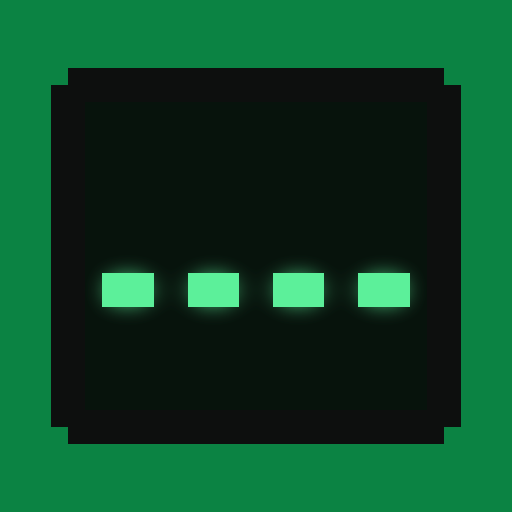
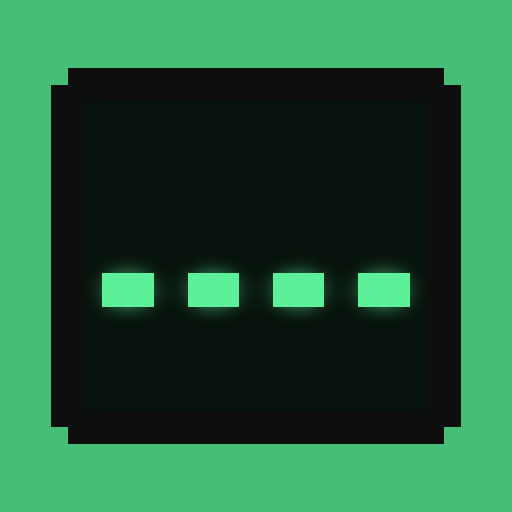
Irish Green (Pantone 15-6340 TCX, #45BE76) as the cabinet green
Cabinet body, edge shade (#2E9A5A), theme color, manifest and Home Screen icons. Commas in numbers now stay in the body font so 60,704 doesn't gap.

Claude-Session: https://claude.ai/code/session_01UkyWsiF1FUnATooC741Un1

diff --git a/docs/index.html b/docs/index.html
@@ -3,7 +3,7 @@
 <head>
 <meta charset="utf-8">
 <meta name="viewport" content="width=device-width, initial-scale=1, viewport-fit=cover">
-<meta name="theme-color" content="#0B8343">
+<meta name="theme-color" content="#45BE76">
 <meta name="apple-mobile-web-app-capable" content="yes">
 <meta name="mobile-web-app-capable" content="yes">
 <meta name="apple-mobile-web-app-status-bar-style" content="black-translucent">
@@ -29,7 +29,7 @@
    Level select: five round buttons on the panel (lit when beaten), the boss lair on the screen.
    Play: 5 right in a row beats a level, one miss ends the run. */
 :root {
-  --body: #0B8343; --body-dark: #075A2E;
+  --body: #45BE76; --body-dark: #2E9A5A;   /* Irish Green, Pantone 15-6340 TCX, and its shade */
   --bezel: #0D0F0E; --screen: #07130C; --glow: #5CF09A; --text: #EAFBF0; --dim: #7FAF92;
   --hot: #FF8A3D; --gold: #F7C948;
   --btn: #F6F0E2; --btn-edge: #CBBFA4; --btn-ink: #1E2A3B;
@@ -248,7 +248,7 @@ button { -webkit-tap-highlight-color: transparent; font-variant-ligatures: none;
   // keep hyphenated words and score/season ranges on one line (outside tags only)
   var keep = function (html) { return html.replace(/(<[^>]*>)|([A-Za-z0-9’]+(?:[-–][A-Za-z0-9’]+)+)/g, function (m, tag, word) { return tag || '<span class="nb">' + word + '</span>'; }); };
   // Pixelify Sans draws 5 like an S, so digits use the arcade face (text outside tags only)
-  var num = function (html) { return html.replace(/(<[^>]*>)|(\d+(?:[.,]\d+)*)/g, function (m, tag, d) { return tag || '<span class="num">' + d + '</span>'; }); };
+  var num = function (html) { return html.replace(/(<[^>]*>)|(\d+)/g, function (m, tag, d) { return tag || '<span class="num">' + d + '</span>'; }); };
   // the sentence with its answer swapped for a blank (or filled in), glued to its punctuation so they never split
   function sentence(it, fill) {
     var glue = new RegExp('(^|[^A-Za-z0-9])((?:&quot;|“)?)(' + quote(esc(it.w)) + ')(?![A-Za-z0-9])((?:[:,.!?…\'’”]|&quot;)*)', 'i');

diff --git a/build/template.html b/build/template.html
@@ -8,7 +8,7 @@
    Level select: five round buttons on the panel (lit when beaten), the boss lair on the screen.
    Play: 5 right in a row beats a level, one miss ends the run. */
 :root {
-  --body: #0B8343; --body-dark: #075A2E;
+  --body: #45BE76; --body-dark: #2E9A5A;   /* Irish Green, Pantone 15-6340 TCX, and its shade */
   --bezel: #0D0F0E; --screen: #07130C; --glow: #5CF09A; --text: #EAFBF0; --dim: #7FAF92;
   --hot: #FF8A3D; --gold: #F7C948;
   --btn: #F6F0E2; --btn-edge: #CBBFA4; --btn-ink: #1E2A3B;
@@ -227,7 +227,7 @@ button { -webkit-tap-highlight-color: transparent; font-variant-ligatures: none;
   // keep hyphenated words and score/season ranges on one line (outside tags only)
   var keep = function (html) { return html.replace(/(<[^>]*>)|([A-Za-z0-9’]+(?:[-–][A-Za-z0-9’]+)+)/g, function (m, tag, word) { return tag || '<span class="nb">' + word + '</span>'; }); };
   // Pixelify Sans draws 5 like an S, so digits use the arcade face (text outside tags only)
-  var num = function (html) { return html.replace(/(<[^>]*>)|(\d+(?:[.,]\d+)*)/g, function (m, tag, d) { return tag || '<span class="num">' + d + '</span>'; }); };
+  var num = function (html) { return html.replace(/(<[^>]*>)|(\d+)/g, function (m, tag, d) { return tag || '<span class="num">' + d + '</span>'; }); };
   // the sentence with its answer swapped for a blank (or filled in), glued to its punctuation so they never split
   function sentence(it, fill) {
     var glue = new RegExp('(^|[^A-Za-z0-9])((?:&quot;|“)?)(' + quote(esc(it.w)) + ')(?![A-Za-z0-9])((?:[:,.!?…\'’”]|&quot;)*)', 'i');

diff --git a/build/head.html b/build/head.html
@@ -3,7 +3,7 @@
 <head>
 <meta charset="utf-8">
 <meta name="viewport" content="width=device-width, initial-scale=1, viewport-fit=cover">
-<meta name="theme-color" content="#0B8343">
+<meta name="theme-color" content="#45BE76">
 <meta name="apple-mobile-web-app-capable" content="yes">
 <meta name="mobile-web-app-capable" content="yes">
 <meta name="apple-mobile-web-app-status-bar-style" content="black-translucent">

diff --git a/docs/sw.js b/docs/sw.js
@@ -2,7 +2,7 @@
 // The page comes from the network first, so updates land right away. If the network fails,
 // or takes over 3 seconds, the saved copy loads instead. Everything else (fonts, icons) comes
 // from the saved copy first.
-var CACHE = 'bsb-v1';
+var CACHE = 'bsb-v2';
 var CORE = ['./', 'manifest.webmanifest', 'icon-192.png', 'apple-touch-icon.png'];
 
 self.addEventListener('install', function (e) {

diff --git a/tools/og.py b/tools/og.py
@@ -10,7 +10,7 @@ ROOT = os.path.dirname(os.path.dirname(os.path.abspath(__file__)))
 HTML = open(os.path.join(ROOT, 'docs', 'index.html')).read()
 CARD = 'The halftime orange slices were <span class="nb"><span class="blank"></span></span>'
 STYLE = """
-  body { background: #0B8343; } .cab { max-width: 300px; gap: 8px; padding: 10px 14px 0; } .coin { display: none !important; }
+  body { background: #45BE76; } .cab { max-width: 300px; gap: 8px; padding: 10px 14px 0; } .coin { display: none !important; }
   .marquee { padding: 10px 8px 11px; } .cab[data-v="title"] .marquee h1 { opacity: 1 !important; font-size: 13px; }
   .cab[data-v="title"] .arc .cap { filter: none !important; } .arc .ring { width: 50px !important; height: 50px !important; } .cab[data-v="title"] .panel { height: 72px !important; padding: 0 12px; }
   .screen { padding: 12px 16px; } #v-title .logo { display: none !important; }

diff --git a/CLAUDE.md b/CLAUDE.md
@@ -26,7 +26,7 @@ python3 build/build.py      # checks every card, writes docs/index.html
 - Test in headless Chromium (Playwright is preinstalled in Claude's cloud workspace) at 402×744 (his phone in the Claude viewer), 375×667 and 320×568. Every screen must fit with no scrolling. Zoom in on punctuation, line ends and icon pixels before calling anything done, not just the whole screen at a glance.
 
 ## The game
-- Cabinet look: the phone is an arcade cabinet on club green #0B8343 (sampled from the Seattle Celtic logo). Marquee sign up top, a CRT screen in a black bezel (scanlines, glowing green pixel text), a black control panel with push-buttons, and two orange coin slots (hidden on short phones).
+- Cabinet look: the phone is an arcade cabinet on Irish Green #45BE76 (Pantone 15-6340 TCX, Morg’s pick Oct 15, our primary green everywhere), with #2E9A5A as its shade for edges. Marquee sign up top, a CRT screen in a black bezel (scanlines, glowing green pixel text), a black control panel with push-buttons, and two orange coin slots (hidden on short phones).
 - Title screen (attract mode): the sign and the panel's level buttons are fully dark. The CRT types the title, then shows a sample card whose blank fills itself in, on a loop. The two orange coin slots blink. Tapping a slot drops a coin in, the sign flickers on and level select opens. Tapping the screen or a dark button only flashes the slots. Coin slots show on every phone on the title and select screens, and hide during play on short phones.
 - Level select: five round arcade buttons in one row, icons only (no labels). Gen Alpha = phone with a deadpan face, Parents = orange cassette, Soccer Fanatics = soccer ball, Swifties = rainbow friendship bracelet, Premier League = gold trophy. A beaten level's ring glows green. The CRT shows the locked final boss with five progress lights.
 - Play: one sentence with a blinking dashed blank and three cream buttons. Right = green with a pixel ✓. Wrong = red with a pixel ✕ and a shake, and the other choice dims. After answering, the blank fills in with the right answer: glowing green on a win, plain white with a dashed underline on a miss. Meanings show only on the buttons (the right answer's, plus your own wrong pick's) and wrap to two lines at most. The untouched choice stays unexplained.
